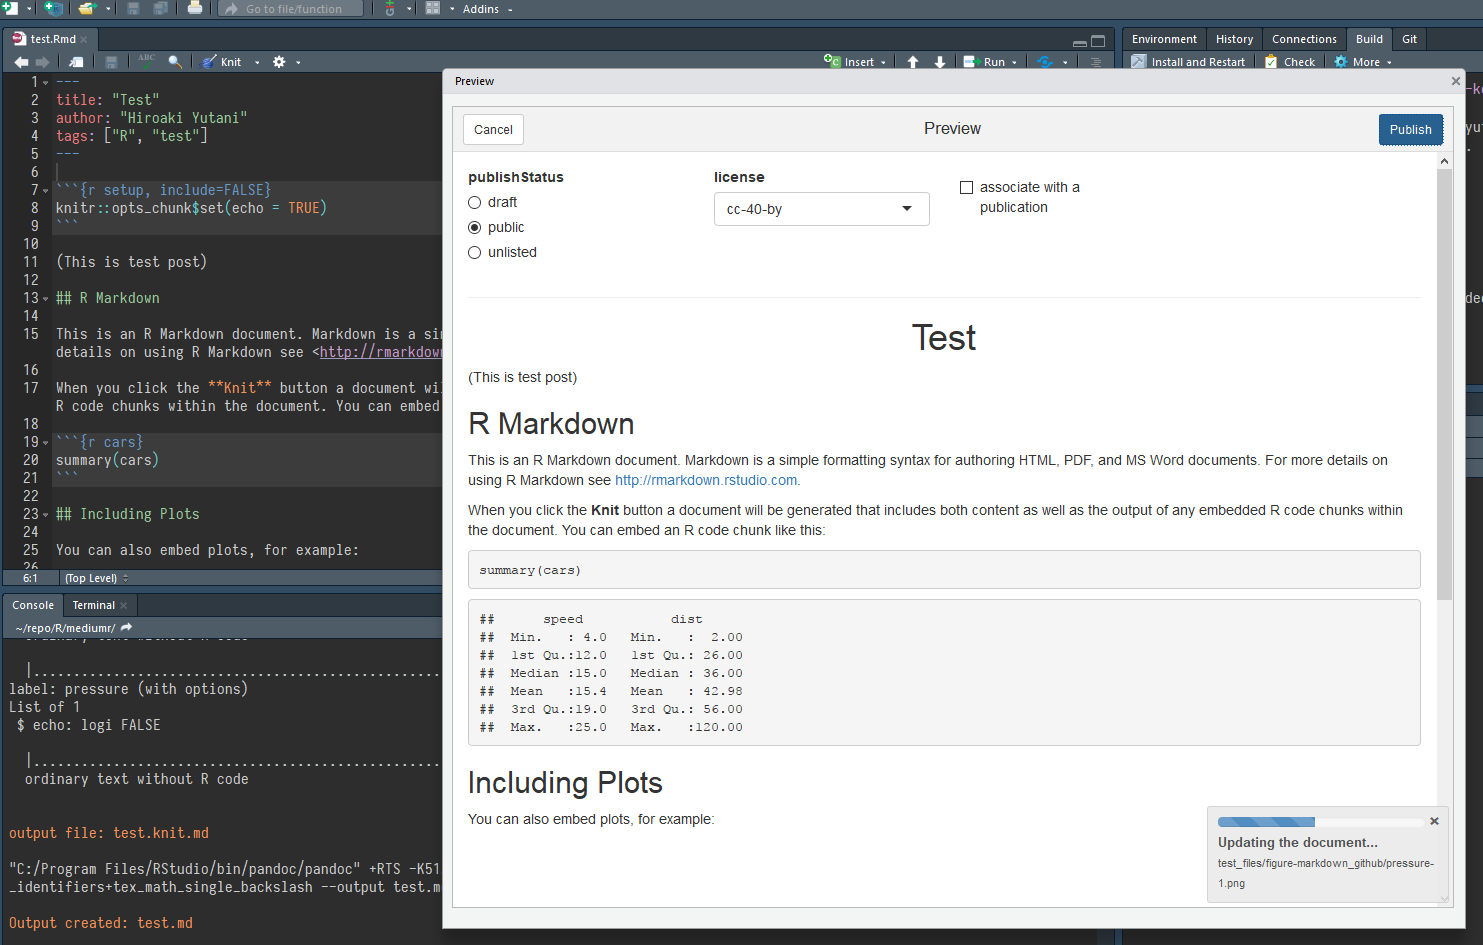
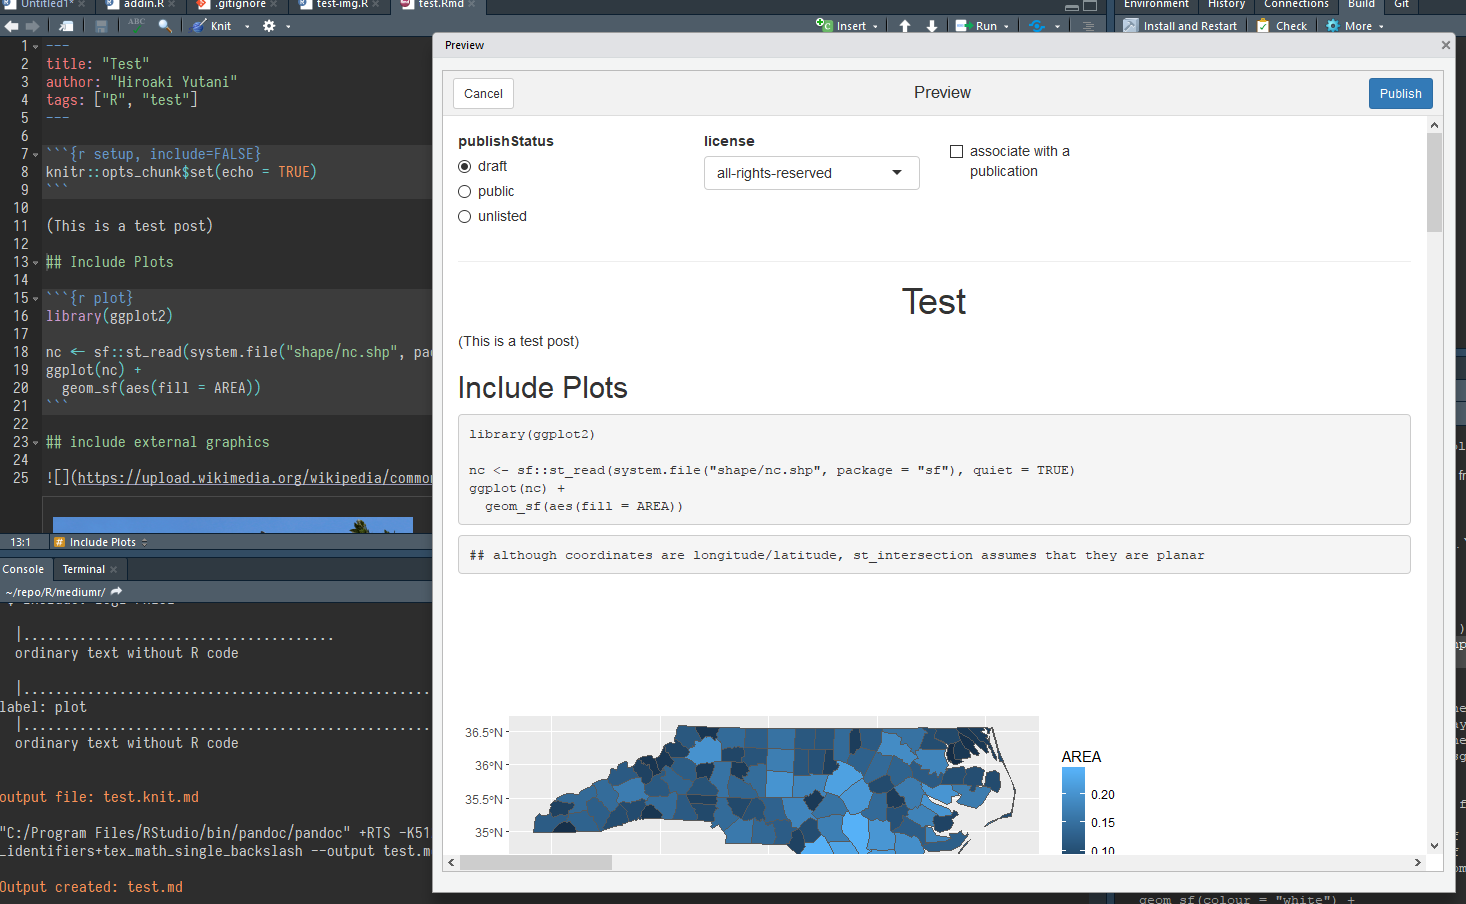
update screenshot

Changed region(s): [[0.0, 0.0, 1.0, 1.0], [0.4604, 0.1549, 0.5832, 0.2478], [0.6139, 0.3097, 0.6753, 0.3717]]

diff --git a/tests/testthat/test.md b/tests/testthat/test.md
@@ -1,9 +1,17 @@
-include plot
-------------
+(This is a test post)
+
+Include Plots
+-------------
 
 ``` r
-plot(1)
+library(ggplot2)
+
+nc <- sf::st_read(system.file("shape/nc.shp", package = "sf"), quiet = TRUE)
+ggplot(nc) +
+  geom_sf(aes(fill = AREA))
 ```
+
+    ## although coordinates are longitude/latitude, st_intersection assumes that they are planar
 
 ![](test_files/figure-markdown_github/plot-1.png)
 
